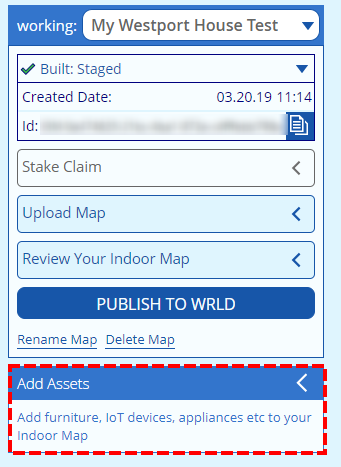
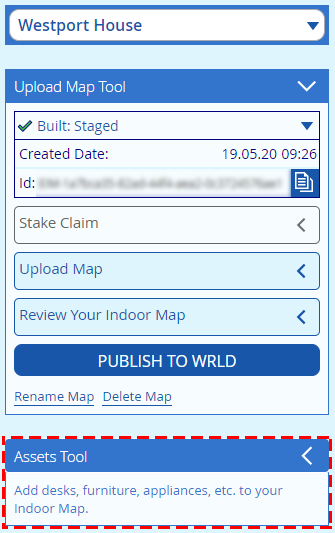
Update images

diff --git a/TUTORIAL-ASSETS.md b/TUTORIAL-ASSETS.md
@@ -228,7 +228,6 @@ With your files prepared, you can now begin the extraction process!
 - Select your Indoor Map from the drop down list and go inside by clicking the Entrance Marker on the map.
 - Open up the "Assets Tool" panel you see here:
 
-<!-- TODO: Change image -->
 ![Image showing where the Assets panel is](images/cadtutorial/add_assets.png)
 
 - Click the ![Import Assets button](images/cadtutorial/import_assets.png) button to begin the process.
@@ -237,7 +236,6 @@ With your files prepared, you can now begin the extraction process!
 
 If successful, you should see the following screen - this lets you preview how many Assets the extraction process was able to find, and what model it intends to use for each one.
 
-<!-- update image -->
 ![Image showing the Preview Import panel](images/cadtutorial/preview_assets.png)
 
 Hit continue and after a bit more processing you should now see your Assets inside your Indoor Map!
@@ -247,18 +245,12 @@ Hit continue and after a bit more processing you should now see your Assets insi
 
 ## Editing your Assets
 
-Now that you've imported your Assets, you can make any changes you wish to their position or orientation. To do this, you can either click on the model directly, or select from the Asset List panel.
-
-<!-- update image -->
-![Image showing the Asset Category List](images/cadtutorial/asset_list_category.png)
-
-Clicking on this will show you your list of Assets of the specified category. Here you can select them, which will highlight the selected Asset, and also delete individual ones as required.
+Now that you've imported your Assets, you can make any changes you wish to their position or orientation. To do this, you can either click on the model directly, or select it from the Asset List panel. In the Asset List panel you can select your Assets, which will highlight the selected one, and also delete individual ones as required.
 
 ![Image showing the Asset Category List](images/cadtutorial/asset_list_highlight.png)
 
 You can also click and drag selected Assets by clicking the dragging the gizmo.
 
-<!-- update this -->
 ![Image showing desk movement](images/cadtutorial/desk_move.gif)
 
 Selecting an Asset also shows the Asset Properties panel, which allows you to edit the selected Asset in more detail.
@@ -285,7 +277,6 @@ At this point, when viewing your Indoor Map in the WRLD APIs you should now see 
 
 If you need to remove your Assets entirely from your Indoor Map, you can do this using the commands located at the bottom of the Add Assets panel.
 
-<!-- update image -->
 ![Image showing the additional Asset Set commands](images/cadtutorial/set_options.png)
 
 You can also rename your Asset Set to a more meaningful name, which will help if you plan on keeping multiple versions.
